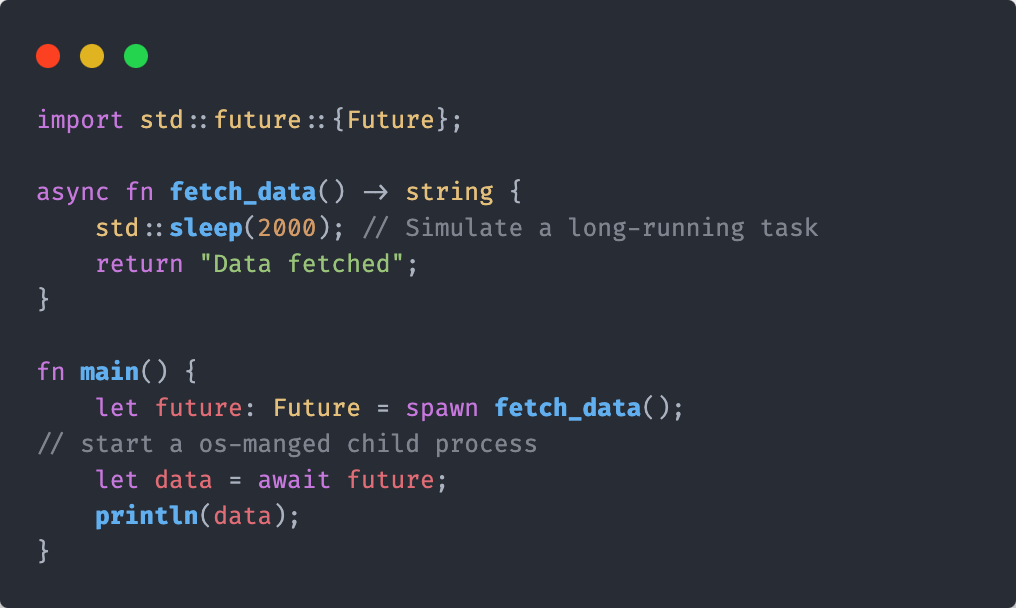
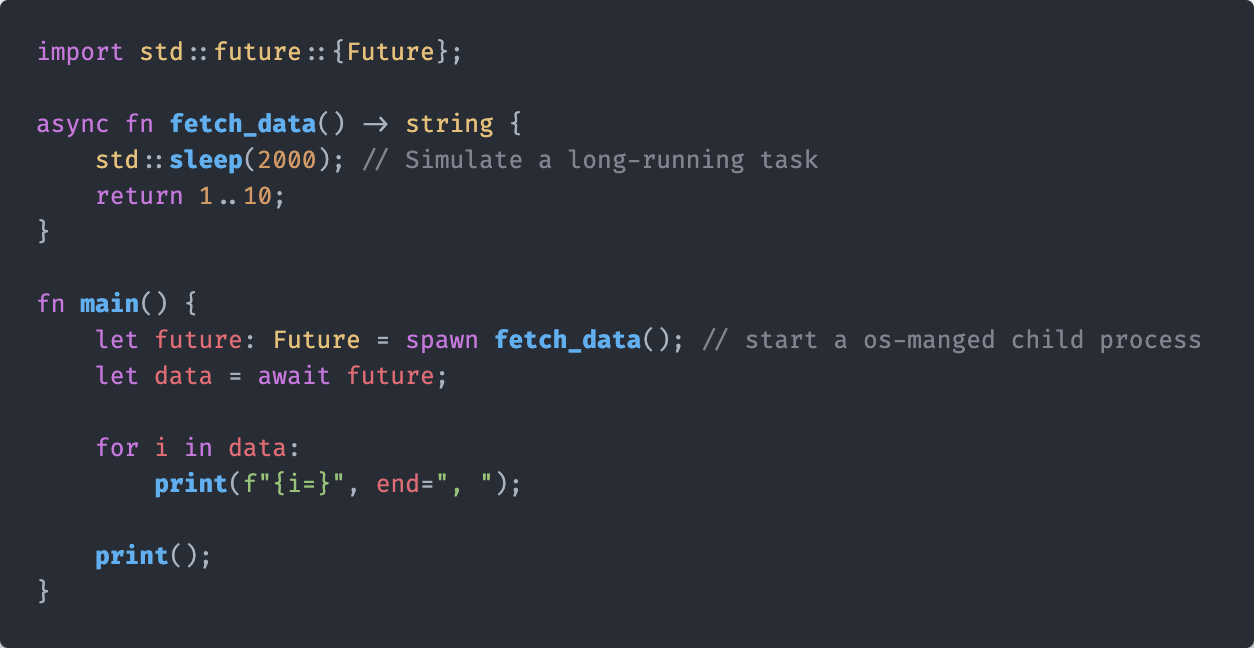
feat: improved examples to meet modified syntax and make the readme slightly better

diff --git a/.github/README.md b/.github/README.md
@@ -2,101 +2,134 @@
   <img src="../assets/helix-logo.svg" alt="Helix Programming Language Logo" width="100%">
 </div>
 
-<p align="center">
-  | <a href="https://www.helix-lang.com">Website</a> |
-    <a href="#helix-programming-language">Introduction</a> |
-    <a href="#why-helix">Why Helix?</a> |
-    <a href="#getting-started-with-helix">Getting Started</a> |
-    <a href="#goals">Goals</a> |
-    <a href="#community-and-contributing">Community</a> |
-    <a href="#license">License</a> |
-</p>
+| [Website](https://www.helix-lang.com) | [Introduction](#helix-programming-language) | [Why Helix?](#why-helix) | [Getting Started](#getting-started-with-helix) | [Goals](#goals) | [Community](#community-and-contributing) | [License](#license) |
 
 # Helix Programming Language
 
 Helix is an experimental language designed for seamless interoperability with Python, C, C++, and Rust. The project aims to provide developers with a fast, efficient, and easy-to-use language that can leverage the power of existing code and libraries in these languages. With its clean syntax and robust features, Helix aims to simplify the process of writing and maintaining code while maximizing performance.
 
-----
+--------------------------------------------------------------------------------
 
 <div>
-<img src="../assets/helix-code-example.png" width="450" align="right"
-     alt="Code Example">
-</a>
+  <img src="../assets/showcase.png" width="450" align="right" alt="Code Example">
 </div>
 
-### Why Helix?
+## Why Helix?
 
 - **Performance**: Optimized for speed and efficiency, making it ideal for critical applications and systems programming.
 - **Interoperability**: Seamlessly integrates with C++, Rust, and Python, allowing you to leverage existing codebases.
 - **Productivity**: Advanced tooling, including a robust standard library, package manager, and build system.
 - **Safety**: Strong type system and error handling to catch bugs at compile-time and runtime.
 
-### Features
+## Features
 
 - **Concurrent Programming**: Easy-to-use async/await syntax for concurrent tasks.
 - **Pattern Matching**: Powerful pattern matching for more readable and maintainable code.
 - **Macros and Pre-Processors**: Extensible macros and pre-processors for code generation and optimization.
 - **Rich Standard Library**: Extensive libraries to handle various programming tasks out of the box.
+- **Object-Oriented Programming**: Support for classes and objects, enabling encapsulation, inheritance, and polymorphism for modular and reusable code.
 
----
+## Helix Syntax Examples
+
+### Unique Type System
+
+Helix supports strong typing and flexible typing (like python) with a unique type bounding generic system:
+
+<div align="left"><img src="../assets/type-bounds-example.png" alt="variables and types example" width="350">
+  <a href="#">
+  <img src="../assets/bumper.png">
+</a></div>
+
+### Native Interoperability
+
+Helix has native interop with (python, rust, c and c++) out of the box, with many more in the works by the community:
+
+<div align="left"><img src="../assets/ffi-example.png" alt="functions and classes example" width="450">
+  <a href="#">
+  <img src="../assets/bumper.png">
+</a></div>
+
+### Async Programming
+
+Handle asynchronous tasks easily with `async` and `await`:
+
+<div align="left"><img src="../assets/async-example.png" alt="async programming example" width="500">
+  <a href="#">
+  <img src="../assets/bumper.png">
+</a></div>
+
+--------------------------------------------------------------------------------
 
 ### Quick Start
 
 #### Installation & Build
 
-> [!WARNING]
-> Helix is currently under development and does not yet have a useable compiler. The following instructions are for development and building the compiler itself.
+> [!WARNING] Helix is currently under development and does not yet have a useable compiler. The following instructions are for development and building the compiler itself.
 
-> [!NOTE]
-> Linux is not tested, Most development is done on MacOS, if any issues arise with building on Windows or Linux, please open an issue.
+> [!NOTE] Linux is not tested, Most development is done on MacOS, if any issues arise with building on Windows or Linux, please open an issue.
 
 ##### Prerequisites
+
 - [xmake](https://xmake.io/#/)
 - [python](https://www.python.org/downloads/)
 - git
 - C++ Compiler and STL (**clang**, **msvc** or **gcc**)
 
 ##### Windows
+
 1. Clone the repo
-    ```sh
-    $ git clone https://github.com/kneorain/helix-lang.git
-    $ cd helix-lang
-    ```
+
+  ```sh
+  $ git clone https://github.com/kneorain/helix-lang.git
+  $ cd helix-lang
+  ```
+
 2. Build
-    ```sh
-    $ xmake build helix
-    ```
+
+  ```sh
+  $ xmake build helix
+  ```
+
 3. Run
-    ```sh
-    $ xmake run helix
-    ```
+
+  ```sh
+  $ xmake run helix
+  ```
 
 ##### MacOS, Unix or Linux
-1. if you don't have python or xmake installed, install using [Homebrew](https://brew.sh/)
-    ```sh
-    $ brew install xmake python
-    ```
-2. Clone the repo
-    ```sh
-    $ git clone https://github.com/kneorain/helix-lang.git
-    $ cd helix-lang
-    ```
-3. Build
-    ```sh
-    $ xmake build helix
-    ```
-4. Run
-    ```sh
-    $ xmake run helix
-    ```
 
----
+1. if you don't have python or xmake installed, install using [Homebrew](https://brew.sh/)
+
+  ```sh
+  $ brew install xmake python
+  ```
+
+2. Clone the repo
+
+  ```sh
+  $ git clone https://github.com/kneorain/helix-lang.git
+  $ cd helix-lang
+  ```
+
+3. Build
+
+  ```sh
+  $ xmake build helix
+  ```
+
+4. Run
+
+  ```sh
+  $ xmake run helix
+  ```
+
+--------------------------------------------------------------------------------
 
 ### Hello, World!
 
 Here's how you can write and run a simple "Hello, World!" program in Helix:
 
-```rs
+```rust
 fn main() {
     print("Hello, World!");
 }
@@ -109,36 +142,8 @@ helix hello_world.hlx
 ./hello_world
 ```
 
-## Getting Started with Helix
-##### Variables and Types
-Helix supports strong typing and flexible variable declarations:
-<div align="left">
-  <img src="../assets/variable-exmaple.png" alt="variables and types example" width="350">
-  <a href="#"><img src="../assets/bumper.png"></a>
-</div>
-
-##### Control Flow
-Helix provides familiar control flow constructs like `if`, `while`, and `for`:
-<div align="left">
-  <img src="../assets/control-flow-exmaple.png" alt="control flow example" width="400">
-  <a href="#"><img src="../assets/bumper.png"></a>
-</div>
-
-##### Async Programming
-Handle asynchronous tasks easily with `async` and `await`:
-<div align="left">
-  <img src="../assets/async-example.png" alt="async programming example" width="500">
-  <a href="#"><img src="../assets/bumper.png"></a>
-</div>
-
-##### Functions and Classes
-Define functions and classes along with other data structures with clear and concise syntax:
-<div align="left">
-  <img src="../assets/function-example.png" alt="functions and classes example" width="450">
-  <a href="#"><img src="../assets/bumper.png"></a>
-</div>
-
 ## Goals
+
 The Helix project aims to achieve the following goals:
 
 - **Interoperability**: Helix will provide seamless interoperability with Python, C, C++, and Rust, allowing developers to integrate code from these languages with ease.
@@ -156,30 +161,34 @@ The Helix project aims to achieve the following goals:
 - **Error Handling**: The language will provide robust error handling features to help developers write reliable and resilient code.
 
 ## Community and Contributing
+
 Helix is an open-source project and we welcome contributions from the community. Whether you're fixing a bug, improving the documentation, or adding a new feature, we'd love to have your help!
 
 - [Submit issues](https://github.com/kneorain/helix-lang/issues) and [pull requests](https://github.com/kneorain/helix-lang/pulls) on GitHub.
 - Read our [Contributing Guide](CONTRIBUTING.md) to get started.
 
 ## License
+
 Helix is released under the Attribution 4.0 International License. See the [LICENSE](https://github.com/kneorain/helix-lang/blob/main/license) file for details.
 
 ## Acknowledgements
+
 The Helix project is made possible by the hard work and dedication of our contributors. Thank you to everyone who are helping make Helix a reality!
 
 <div align="center">
   <a href="https://github.com/kneorain/helix-lang/graphs/contributors">
-    <img src="https://contrib.rocks/image?repo=kneorain/helix-lang" />
-  </a>
+  <img src="https://contrib.rocks/image?repo=kneorain/helix-lang">
+</a>
 </div>
 
----
+--------------------------------------------------------------------------------
 
 Happy coding with Helix! 🚀
 
----
+--------------------------------------------------------------------------------
 
 ### Links
+
 - [Official Website](https://helix-lang.com)
 - [Documentation](https://helix-lang.com/docs)
 - [Tutorials](https://helix-lang.com/tutorials)
